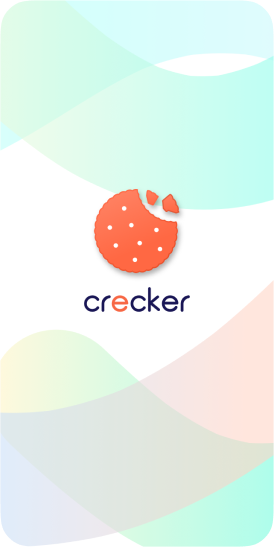
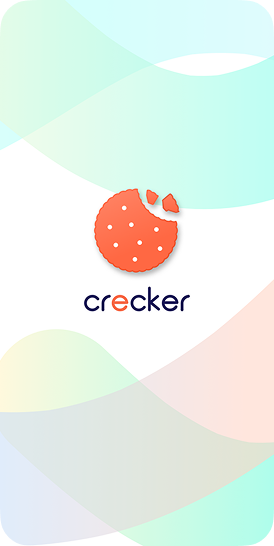
fix: 채용안내 이미지 적용

diff --git a/src/component/views/recruit/RecruitContainer.jsx b/src/component/views/recruit/RecruitContainer.jsx
@@ -24,6 +24,7 @@ const RecruitContainer = () => {
         category="채용정보"
         title="Recruitment"
         description="당신의 가능성이, 우리의 미래가 됩니다."
+        visual="recruit"
       />
       <div className={styles.container}>
         <ContentBox>
@@ -136,7 +137,7 @@ const RecruitContainer = () => {
                     />
                     {skill.details.scope?.map((scope, idx) => (
                       <React.Fragment key={`scope-${idx}`}>
-                        <dt>{scope.part}</dt>
+                        <dt className={styles.chips}>{scope.part}</dt>
                         <dd
                           dangerouslySetInnerHTML={{ __html: scope.contents }}
                         />

diff --git a/src/component/views/recruit/Recruit.module.css b/src/component/views/recruit/Recruit.module.css
@@ -98,6 +98,16 @@
   margin-top: 24px;
 }
 
+.skill .chips {
+  display: inline-block;
+  font-size: 0.875rem;
+  line-height: 1.25rem;
+  padding: 2px 6px;
+  background-color: var(--color-opacity-black-70);
+  color: var(--color-white);
+  font-weight: 400;
+}
+
 .slogan {
   font-size: 2.5rem;
   line-height: 3rem;
@@ -108,7 +118,7 @@
 
 .channel {
   height: 404px;
-  background-color: rgba(0, 0, 0, 0.4);
+  background: url(../../../assets/imgs/bg_recruit_banner.png) center no-repeat;
   display: flex;
   flex-direction: column;
   align-items: center;

diff --git a/src/assets/css/style.css b/src/assets/css/style.css
@@ -90,6 +90,7 @@
   --color-opacity-black-20: rgba(0, 0, 0, 0.2);
   --color-opacity-black-30: rgba(0, 0, 0, 0.3);
   --color-opacity-black-50: rgba(0, 0, 0, 0.5);
+  --color-opacity-black-70: rgba(0, 0, 0, 0.7);
 
   --color-opacity-dark-80: rgba(7, 15, 43, 0.8);
 

diff --git a/src/component/common/molecules/PageVisualization.module.css b/src/component/common/molecules/PageVisualization.module.css
@@ -34,6 +34,10 @@
   background-image: url(../../../assets/imgs/bg_company.png);
 }
 
+.container.recruit {
+  background-image: url(../../../assets/imgs/bg_recruit.png);
+}
+
 .container .inner {
   width: var(--container-max-width);
   height: 100%;
